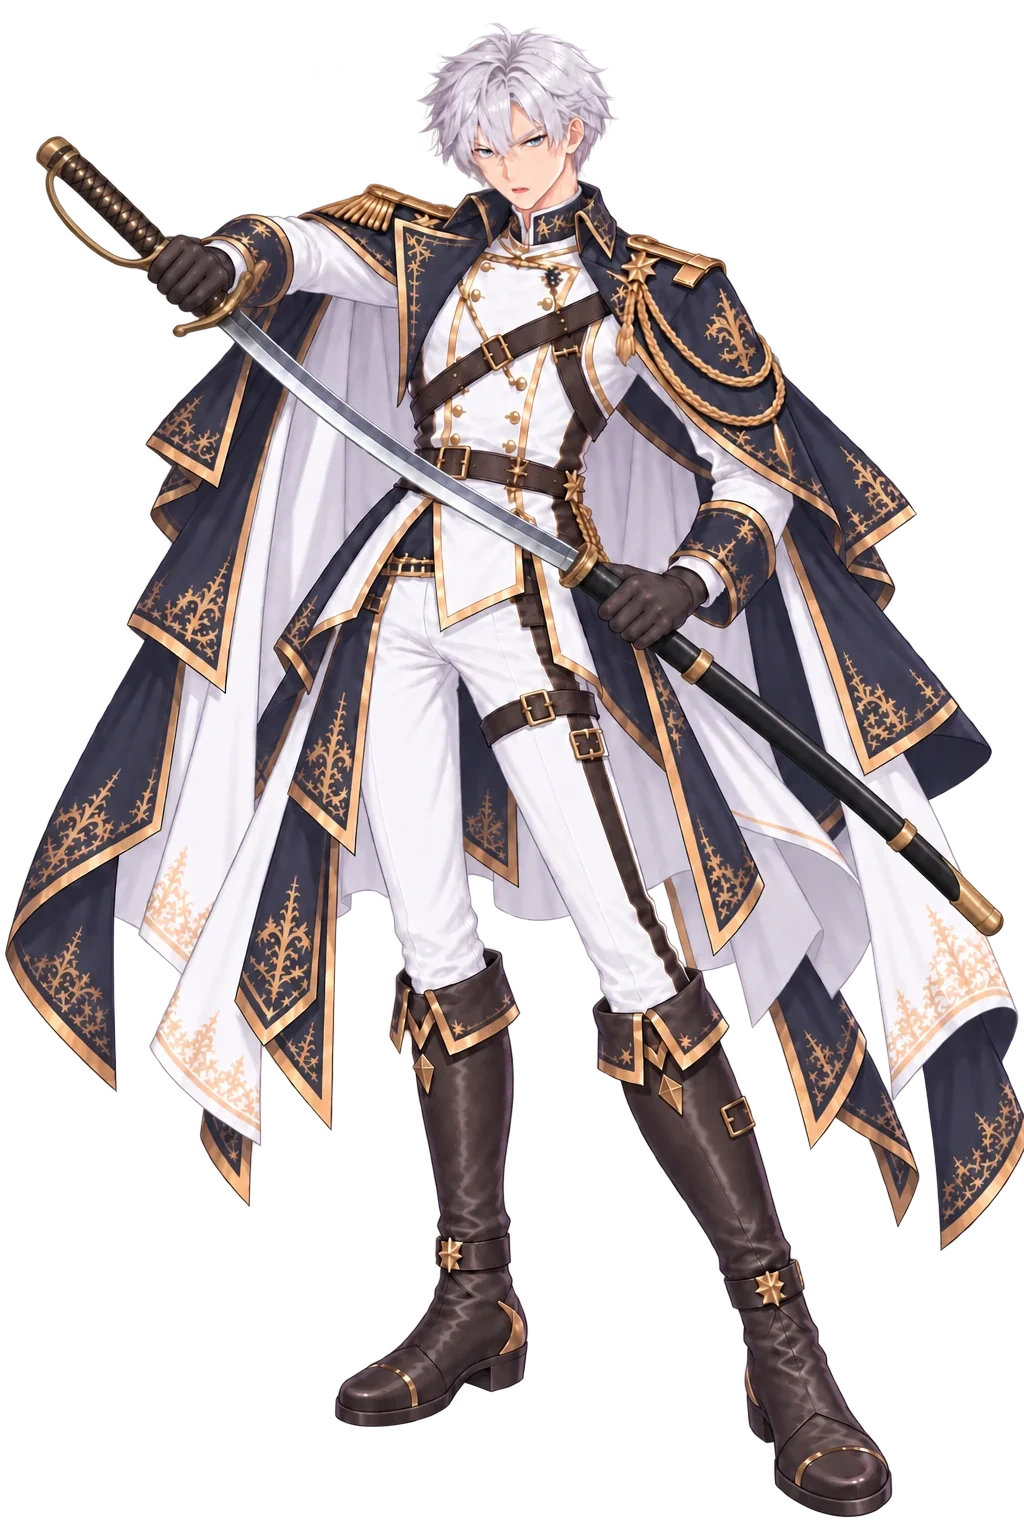
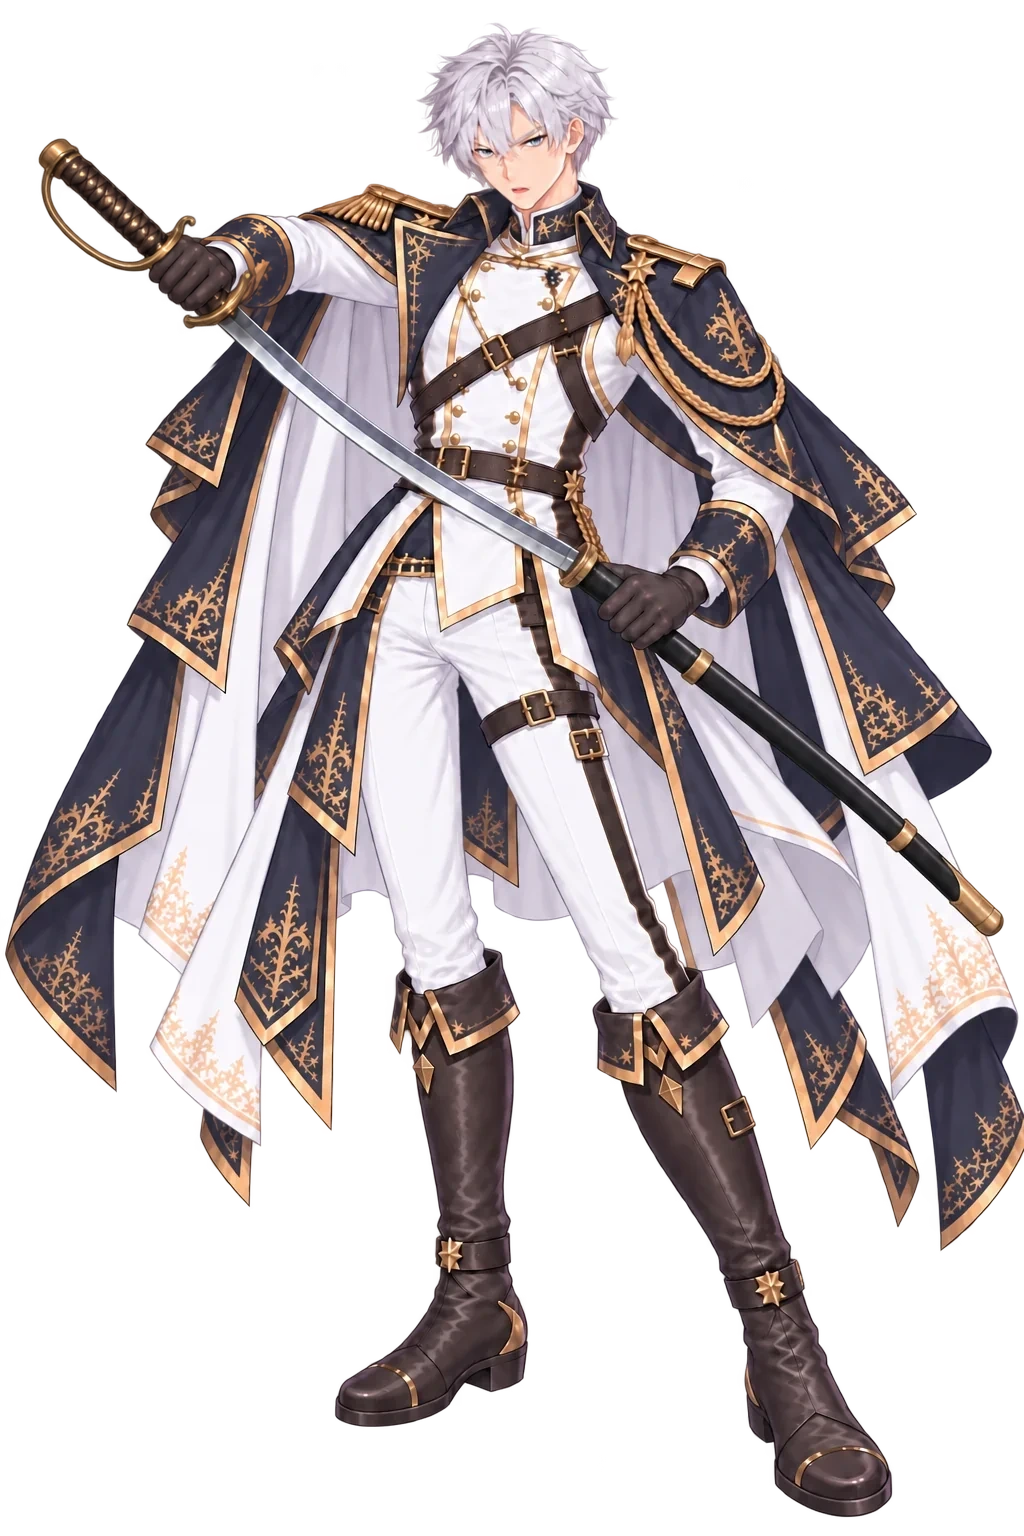
art(米夏): draw／drawopen 護手弓接回鍔 —— GPT 修刀柄、本機只拼刀柄區回原圖
Ray：「先做 draw 那張，護指接到護手」

· 提示詞框成「100% 保留原圖，只修黃銅 D 形護手弓：下端接回鍔」＋ alpha 直出，一次過
· GPT 仍整張微重畫（不透明區 12%、臉 10.9%）⇒ 只取刀柄框內的改動像素
  （膨脹 13 px、羽化 2.5 px）拼回原圖，臉區 0 px 改動；drawopen 用同一張遮罩
· q92 第二代編碼，alpha 解回零誤差、近白 0%；top/bot 22/1516 不變
· 舊 webp 走 recycle.sh；原稿在 _originals/si/misha_si_draw{,open}_guardfix_*.png

⚠ 程式端要接：speakers.js draw ?v=2→3、drawopen 加 ?v=2（工單附三、HANDOFF 標頭第 4 條）
⚠ 交接 §七 說這台有 close 自然站姿底圖 —— 沒有，要重新向 GPT 要

Changed region(s): [[0.0312, 0.0938, 0.3125, 0.2188], [0.25, 0.2188, 0.2812, 0.25]]

diff --git a/resources/si/_misha_program_worklist.md b/resources/si/_misha_program_worklist.md
@@ -170,7 +170,7 @@ Ray 這一輪追加的一件 ＋ 早上留下的三件：
 
 | 件 | Ray 原話 | 規格 |
 |---|---|---|
-| **`draw` 護指沒接到護手** | 「draw那一張的軍刀護指不對，應該要連到護手」 | 畜生道的**黃銅 D 形弓**要**從柄頭一路掃到鍔**（§三第 2 條）。現行 `misha_si_draw.webp` 的弓在柄頭處捲了一圈就停在半空，**下端沒有接回護手**。重畫時只改刀柄，其餘 100% 保留；`drawopen` 是換臉差分，底圖改了要一起重做 |
+| ✔ **`draw` 護指沒接到護手**（**09-24 晚 Windows 已修**，見附三） | 「draw那一張的軍刀護指不對，應該要連到護手」 | 畜生道的**黃銅 D 形弓**要**從柄頭一路掃到鍔**（§三第 2 條）。現行 `misha_si_draw.webp` 的弓在柄頭處捲了一圈就停在半空，**下端沒有接回護手**。重畫時只改刀柄，其餘 100% 保留；`drawopen` 是換臉差分，底圖改了要一起重做 |
 | `close` 自然站姿 | 「close 跟 closeopen 不要立正站好」 | 重心單腳、手搭刀柄；上一台選好的 `_originals/si/misha_si_close_natural_src.png` **這台沒有**（`_originals` 不入版控）—— 要重新向 GPT 要 |
 | `closeopen` 重做 | 同上 | 以新的 `close` 為底、只換嘴 |
 | 刀長不合格 7 張 | 「好幾張都跑掉」 | `_misha_sword_lock.md` §四那張表（`side`／`stare` 太長、`close`／`talk`／`frown`／`guard`／`back` 太短）；等 Ray 說要不要重畫 |
@@ -182,3 +182,25 @@ Ray 這一輪追加的一件 ＋ 早上留下的三件：
 —— 發佈被自動模式擋下（判成可遠端寫入的介面），沒有繞過。
 ⇒ 三條路由 Ray 決定：① 放行那個中繼 Artifact ② 米夏那批在 **Windows 那台的 session** 做
 ③ 我在這台先把提示詞送出、圖下載到 Windows 的 `~/Downloads`，Ray 手動搬進 repo 再由這邊量刀長／交件。
+
+
+## 附三、2026-09-24 晚（Windows 那台）：`draw` 護手弓接回鍔 —— ✔ 已交件
+
+Ray：「先做 draw 那張，護指接到護手」
+
+**作法**：白底原稿＋`chikushoudou.webp` 上傳 ChatGPT，提示詞框成「100% 保留原圖，只修黃銅 D 形護手弓：
+上端從柄頭出發、下端**接回鍔**，封閉的 D 形；現在的錯法是下端停在半空」，要求 alpha 直出。
+GPT 一次就過（沒被擋）。⚠ 但它照樣**整張微重畫**（不透明區 12% 像素變動、臉區 10.9%）——
+照 9/24 交接 §四第 1 條，**只把刀柄區拼回原圖**：遮罩＝刀柄框（x 0~320、y 110~360）內的改動像素，
+膨脹 13 px、羽化 2.5 px；RGB 與 alpha 都在遮罩內取 GPT 版。臉區改動 **0 px**。
+
+| 檔 | 作法 | top | bot | fx（量測） | 交件 |
+|---|---|---|---|---|---|
+| `misha_si_draw.webp` | 舊圖 ＋ GPT 刀柄 | 22 | 1516 | 0.505（被刀柄拉偏，**沿用表上的 0.46**） | q92 第二代，alpha 零誤差、近白 0% |
+| `misha_si_drawopen.webp` | 同上（drawopen 的刀柄區與 draw 只差 5 px，同一張遮罩） | 22 | 1516 | 同上 | 同上 |
+
+原檔：`_originals/si/misha_si_draw_guardfix_gpt.png`（GPT 整張）、`misha_si_draw_guardfix_src.png`／
+`misha_si_drawopen_guardfix_src.png`（拼接後的母版）。舊 webp 走 `tools/recycle.sh`。
+
+⚠⚠ **程式端要接（鐵律 11）**：同名覆蓋 ⇒ `speakers.js:1486` `draw` 的 `?v=2`→`?v=3`；
+`speakers.js:1498` `drawopen` 現在**沒有版號**，要加 `?v=2`。`top/bot/fx` 都不用動。

diff --git a/resources/_HANDOFF_ART_20260924.md b/resources/_HANDOFF_ART_20260924.md
@@ -128,3 +128,17 @@
 - Claude in Chrome 只連得到 Windows 那台的 Chrome；Mac 內建瀏覽器的 ChatGPT 沒登入。
   ⇒ 在 Mac 上只能做「不需要把 GPT 的圖搬回來」的事（小地圖圖示表那種墨線圖可以走頁面文字）。
 - `_originals/` 不同步：兩台各一份，選好的底圖要交件就得 commit 進 `resources/`。
+
+
+---
+
+## 八、2026-09-24 晚（Windows 那台）：米夏 `draw` 護手弓 —— ✔ 交件
+
+- `draw`／`drawopen` 的黃銅 D 形弓下端已接回鍔（GPT 修刀柄、本機只拼刀柄區回原圖，臉與其餘 0 px 改動）。
+  細節與數字在 `si/_misha_program_worklist.md` **附三**。
+- **程式端要接**：`speakers.js` `draw` `?v=2→3`、`drawopen` 加 `?v=2`；取景值不變。
+- ⚠ 這台**沒有** `_originals/si/misha_si_close_natural_src.png`（§七寫「那台有」是錯的 —— `_originals/` 只有
+  `SI_ext` 與 `_matting_eval`，下載夾也沒有），`close` 自然站姿要重新向 GPT 要。
+- 米夏待修剩下：`close` 自然站姿 → `closeopen` 重做；刀長不合格 7 張等 Ray。
+- ChatGPT 那串：`https://chatgpt.com/c/6ab538d4-7dc4-83e8-a53d-8b8f0f3f3450`（原稿與刀圖都掛在最上面，
+  接下去做 `close` 可以直接沿用，不必重傳）。

diff --git a/HANDOFF.md b/HANDOFF.md
@@ -2,7 +2,8 @@
 > 1. `speakers.js:675` 索拉娜 `whisper`：`?v=2`→`?v=3`、`top:4 bot:1524`（圖已回復成重製前那張；`_sorana_r3_worklist.md` §十六）
 > 2. `script/town.js` 的 `lake` 與 `canyon` 各補 `map:{img,spots}`（新增，整段可抄：`resources/map/_minimap_worklist.md` 末段）
 > 3. 米夏的隨從 `retainer_si_front` 仍未接（`cm`／`side` 要 Ray 給，`_misha_program_worklist.md` 附）
-> 美術現況與換機器交接：`resources/_HANDOFF_ART_20260924.md` §六～§七。做完把這一塊刪掉或標成已接。
+> 4. **（09-24 晚，Windows）米夏 `draw` 護手弓修好了，同名覆蓋**：`speakers.js:1486` `draw` `?v=2`→`?v=3`、`speakers.js:1498` `drawopen` 加 `?v=2`；取景值不動（`_misha_program_worklist.md` 附三）
+> 美術現況與換機器交接：`resources/_HANDOFF_ART_20260924.md` §六～§八。做完把這一塊刪掉或標成已接。
 
 > ✅ **`tomb_misha_met` 東泊那一邊 -1717 接上了**（Ray 定案：AB 順序長談在「滿足滿足！」收場、
 > 可睡、沒有那一夜也沒有審訊、隔天直接走出旅店）—— 見 -1717 那一段。
